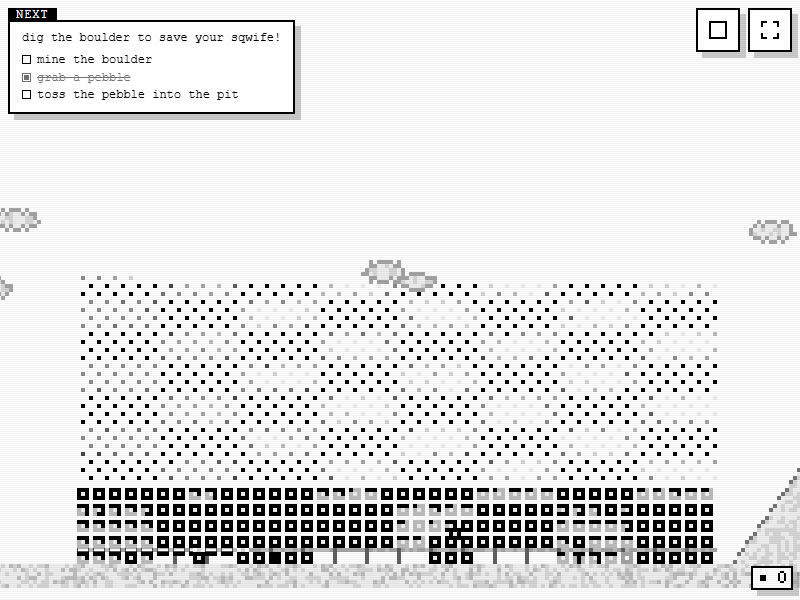
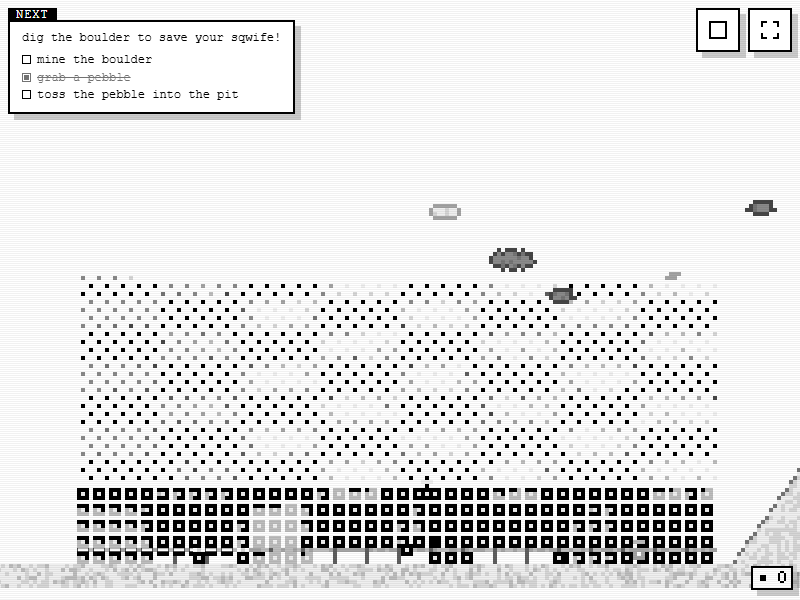
Act 3: the far field drawn only to the view's top, gatherers pick a cloud the pole reaches, ladder feet off TREE_CHOPS and TREE_GROW_S

diff --git a/src/render/after.js b/src/render/after.js
@@ -18,7 +18,7 @@ import { S } from '../state.js';
 import { ctx } from './ctx.js';
 import { warning } from './pilemarks.js';
 import { afterX0, afterX1, afterFloor, plotX, stationBox, soulX, farX, soulY, slotX, crowdX1, stairFoot,
-         throneAt, fileAt } from '../after/place.js';
+         throneAt, fileAt, rankAtY } from '../after/place.js';
 import { CROWD_X0 } from '../config.js';
 import { clouds, cloudCells, cloudAlpha, airMotes, airPuffs, cloudW } from '../after/faith.js';
 import { trees, GROWN, TRUNK_CELLS, CROWN_CELLS } from '../after/grove.js';
@@ -241,7 +241,7 @@ export function drawAfterCamp() {
 // by one. A slot whose member walked out to the camp stands empty.
 const RIM = [[0, 0], [1, 0], [2, 0], [2, 1], [2, 2], [1, 2], [0, 2], [0, 1]];
 const FAR_TONE = [1, 2, 3, 4, 5, 6, 7, 8, 10];
-export const crowdSpan = () => ({ f0: fileAt(S.camX - P * 4), f1: fileAt(S.camX + S.viewW + P * 4) });
+export const crowdSpan = () => ({ f0: fileAt(S.camX - P * 4), f1: fileAt(S.camX + S.viewW + P * 4), r1: rankAtY(S.camY - P * 4) });
 let drawn = 0;
 export const crowdDrawn = () => drawn;
 function drawSoul(f, r, v) {
@@ -266,10 +266,11 @@ export function drawAfterCrowd() {
   const a = A();
   if (!a) return;
   const arr = souls(), n = arr.length;
-  const { f0, f1 } = crowdSpan();
+  const { f0, f1, r1 } = crowdSpan();
   drawn = 0;
-  // Back to front, so a near body stands over the far field behind it.
-  for (let r = Math.ceil(n / CROWD_FILES) - 1; r >= 0; r--) {
+  // Back to front, so a near body stands over the far field behind it; the
+  // ranks above the view's top are left undrawn.
+  for (let r = Math.min(r1, Math.ceil(n / CROWD_FILES) - 1); r >= 0; r--) {
     for (let f = f0; f <= f1; f++) {
       const i = r * CROWD_FILES + f;
       if (i >= n) continue;

diff --git a/src/config/after.js b/src/config/after.js
@@ -226,8 +226,8 @@ export const AFTER_PER = { faith: 1, timber: 4, paper: 6 };
 const AFTER_COST = [8, 15, 25, 40, 60, 90, 130, 180];
 export const AFTER_LADDERS = {
   'after-puff':    { value: [1, 2, 3, 4, 6, 8, 11, 15, 20], cost: AFTER_COST },              // faith a hit
-  'after-axe':     { value: [8, 7, 6, 5, 5, 4, 4, 3, 3], cost: AFTER_COST.map(c => c * 2) }, // chops a tree (TREE_CHOPS the foot)
-  'after-grow':    { value: [90, 80, 70, 62, 55, 48, 42, 36, 30], cost: AFTER_COST },        // seconds a growth stage (TREE_GROW_S the foot)
+  'after-axe':     { value: [TREE_CHOPS, 7, 6, 5, 5, 4, 4, 3, 3], cost: AFTER_COST.map(c => c * 2) }, // chops a tree (TREE_CHOPS the foot)
+  'after-grow':    { value: [TREE_GROW_S, 80, 70, 62, 55, 48, 42, 36, 30], cost: AFTER_COST },        // seconds a growth stage (TREE_GROW_S the foot)
   'after-saw':     { value: [4, 3.6, 3.2, 2.8, 2.5, 2.2, 1.9, 1.6, 1.4], cost: AFTER_COST }, // seconds a log
   'after-joinery': { value: [6, 5.4, 4.8, 4.2, 3.7, 3.2, 2.8, 2.4, 2], cost: AFTER_COST },   // seconds a sign
   'after-pulp':    { value: [4, 3.6, 3.2, 2.8, 2.5, 2.2, 1.9, 1.6, 1.4], cost: AFTER_COST }, // seconds a sheet

diff --git a/src/after/place.js b/src/after/place.js
@@ -63,6 +63,13 @@ export const soulX = f => CROWD_X0 + f * CROWD_PITCH + P;
 export const farX = (f, r) => soulX(f) + (r % 2 ? CROWD_PITCH / 2 : 0);
 export const soulY = r => afterFloor() - P * 2 - (r < CROWD_NEAR ? r * CROWD_ROW
                                                  : CROWD_NEAR * CROWD_ROW + (r - CROWD_NEAR) * CROWD_FAR_ROW);
+// The deepest rank whose row stands at or below world y: the far field is
+// drawn only up to the view's top.
+export const rankAtY = y => {
+  const front = afterFloor() - P * 2, near = CROWD_NEAR * CROWD_ROW;
+  if (front - y < near) return Math.max(0, Math.floor((front - y) / CROWD_ROW));
+  return CROWD_NEAR + Math.floor((front - near - y) / CROWD_FAR_ROW);
+};
 export const crowdX1 = () => CROWD_X0 + CROWD_FILES * CROWD_PITCH;
 // The file under a world x, clamped to the field.
 export const fileAt = x => Math.max(0, Math.min(CROWD_FILES - 1, Math.floor((x - CROWD_X0) / CROWD_PITCH)));

diff --git a/src/after/bodies.js b/src/after/bodies.js
@@ -78,7 +78,8 @@ const JOB_STEP = {
     if (w.t >= AFTER_CANVASS_S) { canvass(w.target); w.target = null; }
   },
   gatherer(w, dt) {
-    const alive = clouds().filter(c => c.die == null);
+    // A cloud the pole reaches: low enough over the floor.
+    const alive = clouds().filter(c => c.die == null && floorY() - (c.y + cloudH(c)) <= AFTER_POLE);
     let c = alive.find(q => q.id === w.target);
     if (!c) {
       let bd = Infinity;
